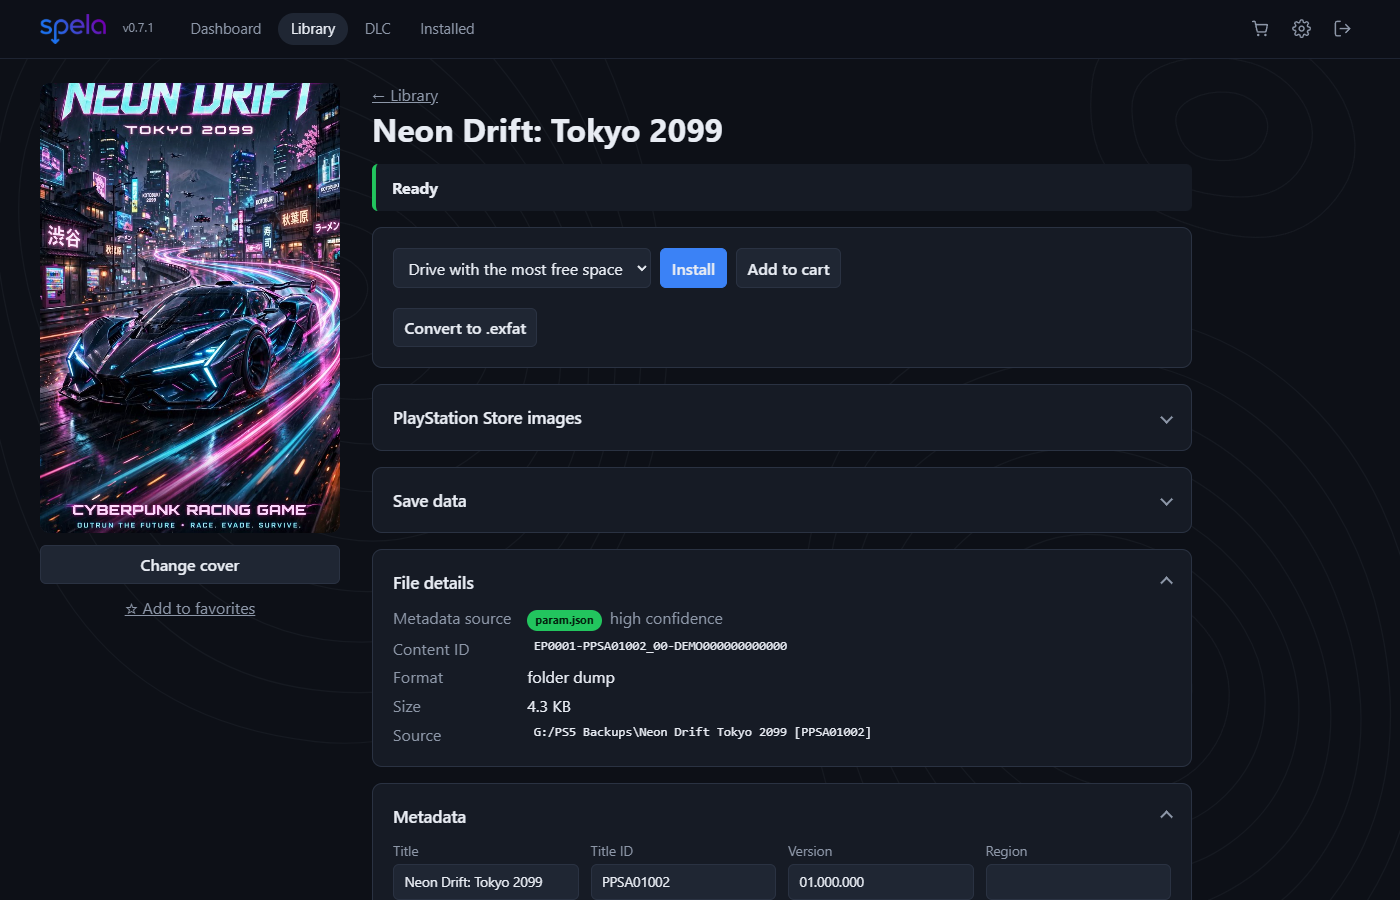
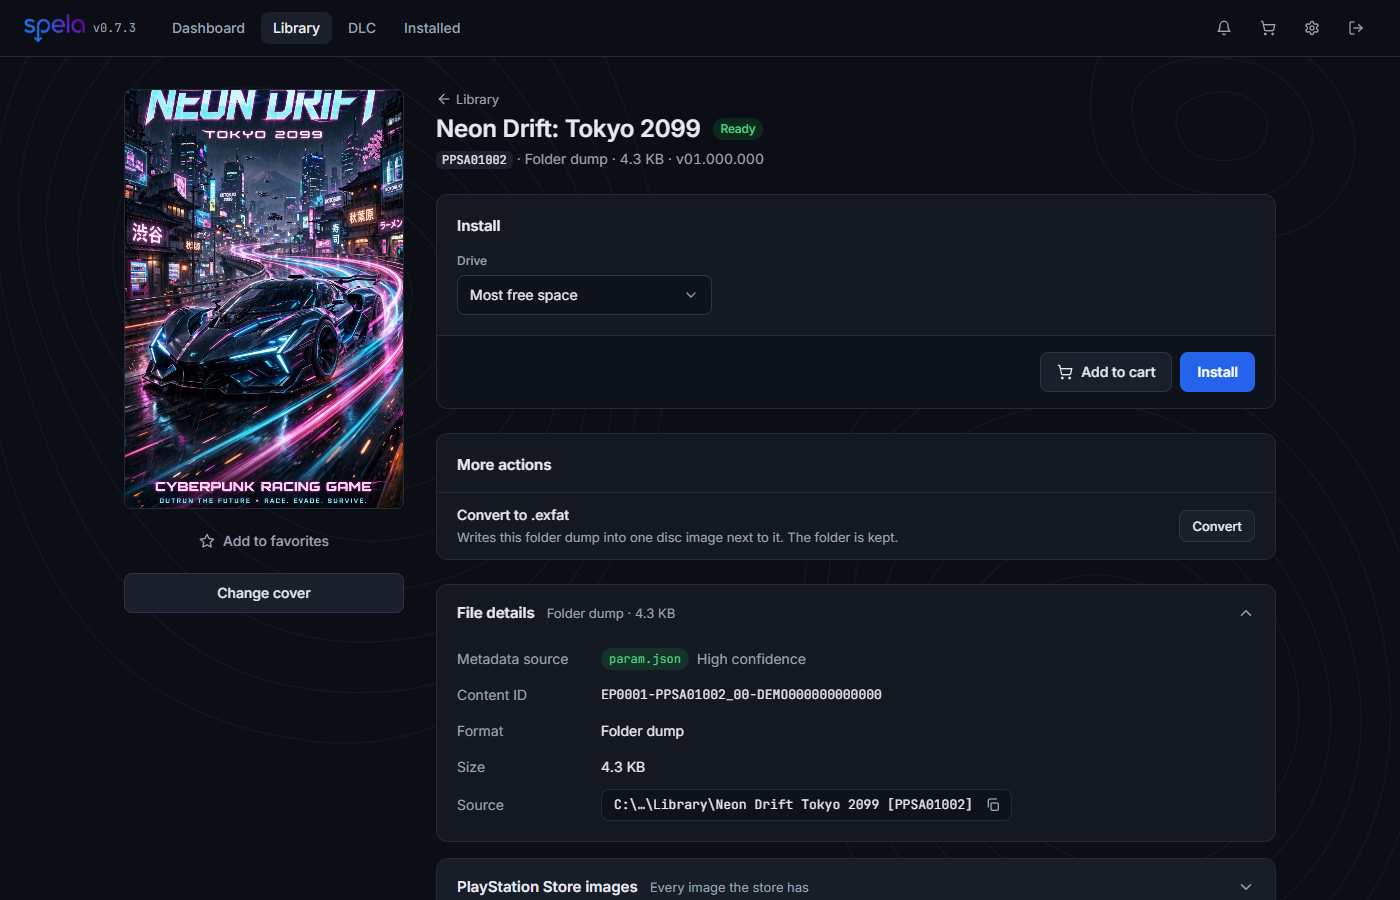
docs: refresh the README and its screenshots
Group the feature list, add moving games to the PC, cleaning up
unfinished copies, the notification bell and one-click updates, and
retake the PC screenshots in the new design.

Changelog: skip

diff --git a/README.md b/README.md
@@ -24,24 +24,39 @@ Browse them on your PC, install them to your console over your home network, rem
 
 ## What it does
 
-- **Finds your games.** Point it at a folder or a whole drive. It recognizes folder dumps, disc images (`.exfat`, `.ffpkg`, `.ffpfs`, `.ffpfsc`) and `.zip` / `.7z` / `.rar` archives holding them, by looking *inside* the files, not just at their names. Anything it can't identify is flagged instead of guessed.
-- **Looks good.** Posters, publisher, release year, genre and rating come from PlayStation Store by title ID, no account needed. Upload your own cover if you like.
-- **Installs over your network.** One click (or a whole selection) copies a game to the console's internal drive or a USB drive. It copies under a hidden name, checks every file's size, and only then renames it into place, so ShadowMountPlus never sees half a game.
+**Your library**
+
+- **Finds your games.** Point it at a folder or a whole drive. It recognizes folder dumps, disc images (`.exfat`, `.ffpkg`, `.ffpfs`, `.ffpfsc`) and `.zip` / `.7z` / `.rar` archives holding them by looking *inside* the files, not just at their names. Anything it can't identify is flagged, never guessed.
+- **Looks the part.** Posters, publisher, release year, genre and rating come from PlayStation Store by title ID, no account needed. Prefer your own cover? Upload it.
+- **Keeps DLC apart.** DLC gets its own page and folders, and unlockers can be added straight into an installed game's folder.
+- **Converts folder dumps** to a single `.exfat` image in plain Python: no OSFMount, WSL or admin rights.
+
+**Your console**
+
+- **Installs over your network.** Click one game, or select a dozen and queue them all, to copy them to the internal SSD or a USB drive. Each copy goes in under a hidden name, every file's size is checked, and only then is it renamed into place, so ShadowMountPlus never sees half a game. One title ID per console, so two versions can't clash.
 - **Removes cleanly.** Deleting a ShadowMountPlus game on the PS5 leaves its files behind. Spela shows exactly what it will delete, deletes only that, and takes the home-screen tile with it.
-- **Moves games between drives** on the console itself, without sending anything over the network.
-- **Fixes the home screen.** Installed games get their proper logo on the PS5 home screen, which a jailbroken console can't fetch itself.
-- **Handles DLC.** Installs DLC unlockers into a game's folder; keeps DLC in its own list.
-- **Backs up and restores save data** between the console and your PC (asking before it replaces a save), and converts folder dumps to `.exfat` images in plain Python (no OSFMount, WSL or admin rights).
-- **Wakes the console** from rest mode, and re-sends its helper by itself after the console restarts.
-- **Has a PS5 app.** Games, Installed, DLC and a cart on the TV, with Cross to install and Square to stop or remove.
+- **Moves games** between the console's drives without anything crossing the network, or back onto your PC when the console runs out of room.
+- **Tidies up.** Unfinished copies left by an install that stopped partway are found and can be cleaned up in one click.
+- **Fixes the home screen.** Installed games get their proper logo, which a jailbroken console can't fetch for itself.
+- **Backs up and restores save data** between the console and your PC, and asks (and backs up the current save) before it replaces one.
+- **Wakes the console** from rest mode, and sends its helper again by itself after the console restarts.
+
+**From the couch**
+
+- **A Spela app on the PS5 home screen.** Games, Installed and DLC tabs plus a cart on the TV: Cross installs, Square stops or removes, and you pick the drive.
+
+**Day to day**
+
+- **Keeps you posted.** A Dashboard shows library totals, each console's status and free space, and anything that needs a look. A bell in the top bar lists what finished while you were away.
+- **Updates in one click.** When a new release is out, **Update to v…** in the top bar downloads it and restarts Spela, keeping your library and settings. The helper and the PS5 app update themselves after it.
 - **Stays private.** Runs in the tray, answers only to your PC by default, and can give a phone or a guest a view-only password.
 
 ## Screenshots
 
 <table>
   <tr>
-    <td width="50%"><img src="docs/screenshots/dashboard.png" alt="Dashboard: library totals, console status, drive space"><br><sub><b>Dashboard</b>: what's in the library, how each console and drive is doing, what needs a look.</sub></td>
-    <td width="50%"><img src="docs/screenshots/game.png" alt="A game's page with install button and file details"><br><sub><b>Game page</b>: choose a drive, install, convert, see exactly where the files came from.</sub></td>
+    <td width="50%"><img src="docs/screenshots/dashboard.png" alt="Dashboard: library totals, console status, drive space"><br><sub><b>Dashboard</b>: what's in the library, how each console and drive is doing, and what needs a look.</sub></td>
+    <td width="50%"><img src="docs/screenshots/game.png" alt="A game's page with install button and file details"><br><sub><b>Game page</b>: pick a drive and install, add it to the cart, convert it, and see exactly where the files came from.</sub></td>
   </tr>
   <tr>
     <td width="50%"><img src="docs/screenshots/ps5-games.png" alt="The Spela app on the PS5: the games on your PC"><br><sub><b>On the PS5</b>: the games on your PC, with what's installed, updatable or in progress.</sub></td>
@@ -70,6 +85,8 @@ Browse them on your PC, install them to your console over your home network, rem
 
    You can leave halfway: the guide remembers where you got to, and stays on the Dashboard until you're done. When something goes wrong, it says what to check. Then open a game and click **Install**.
 3. Optional: click **Install PS5 app** under **Settings → Consoles** to get Spela on the console's home screen.
+
+You only download Spela once: later releases show up as **Update to v…** in the top bar.
 
 Nothing needs changing in Windows: the PC only ever connects out to the PS5, and the PS5 app reaches the PC through the helper, so no firewall rule or network setting is involved.
 
